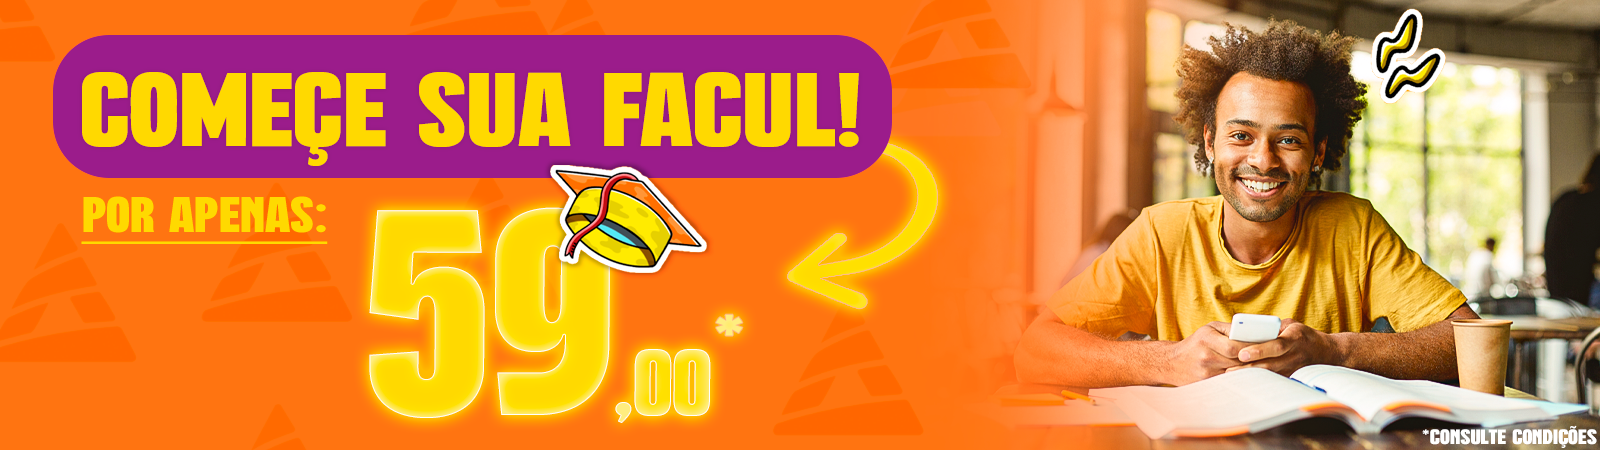
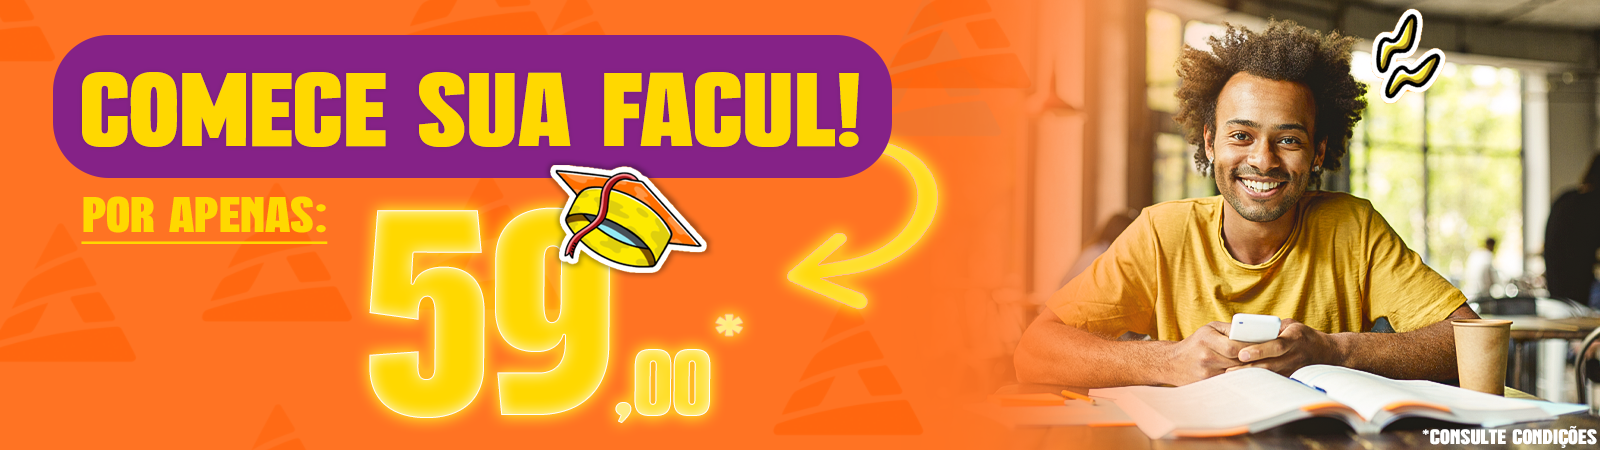
correçoes ortográficas

diff --git a/aport.html b/aport.html
@@ -129,7 +129,7 @@
         <img src="./img/aport-logo.svg" alt="logo stick">
         <h1 class="titulo-pos">Colaborador APORT, venha transformar o seu futuro acadêmico!</h1>
       </div>
-      <p>A Anhanguera SP disponibiliza uma ampla variedade de oportunidades acadêmicas, com mais de 100 cursos de graduação, mais de 500 cursos de pós-graduação e 9 cursos técnicos à sua disposição. Além disso, como colaborador, você pode contar com uma série de benefícios projetados para tornar o seu sonho acadêmico uma realidade. O nosso compromisso é com o seu sucesso acadêmico, e nossa equipe está dedicada a acompanhá-lo em toda a sua jornada. Oferecemos treinamento, orientações e estamos prontos para esclarecer todas as suas dúvidas, garantindo que você tenha todo o suporte necessário para alcançar seus objetivos acadêmicos. </p>
+      <p>A Anhanguera SP disponibiliza uma ampla variedade de oportunidades acadêmicas, com mais de 100 cursos de graduação, mais de 500 cursos de pós-graduação e 9 cursos técnicos à sua disposição. Além disso, como colaborador, você pode contar com uma série de benefícios projetados para tornar seu sonho acadêmico em realidade. O nosso compromisso é com o seu sucesso acadêmico, e nossa equipe está dedicada a acompanhá-lo(a) em toda a sua jornada. Oferecemos treinamento, orientações e estamos prontos para esclarecer todas as suas dúvidas, garantindo que você tenha todo o suporte necessário para alcançar seus objetivos acadêmicos. </p>
       <h2>Para cursos de Graduação:</h2>
       <img src="./img/desconto-g.png" alt="desconto graduação">
       <div class="colum-aport">
@@ -138,11 +138,11 @@
           <img src="./img/desconto-p.png" alt="desconto pós">
         </div>
         <div>
-          <h2>Os beneficcios ainda não acabaram! Ainda tem mais:</h2>
+          <h2>Os benefícios ainda não acabaram! Ainda têm mais:</h2>
           <img src="./img/desconto-cl.png" alt="Desconto cursos">
         </div>
       </div>
-      <p>Não precisa se preocupar com os horários! A secretária fica disponível para atendimento de segunda a sexta feira, das 8h às 22h e aos sábados das 8h às 17h. </p>
+      <p>Não precisa se preocupar com os horários! A secretaria fica disponível para atendimento de segunda a sexta feira, das 8h às 22h e aos sábados das 8h às 17h. </p>
     </div>
   </section>
 

diff --git a/graduacao.html b/graduacao.html
@@ -119,7 +119,7 @@
       <img src="./img/anhanguera-stick.svg" alt="logo stick">
       <h1>Não perca tempo e inicie seus estudos na anhanguera agora mesmo!</h1>
     </div>
-    <p class="texto-g">Invista no seu futuro profissional com o Grupo Anhanguera SP. Oferecemos uma ampla variedade de cursos de graduação, incluindo opções online, semipresenciais e presenciais. Nossa oferta abrange uma gama diversificada de áreas, como saúde, direito, educação, engenharia, tecnologia e muito mais. Além disso, nos dedicamos a proporcionar um ambiente de aprendizado de alta qualidade, com professores experientes e recursos de apoio para ajudá-lo a alcançar o sucesso acadêmico e profissional. Oferecemos cursos tecnólogos, bacharelados e licenciaturas para atender às suas necessidades e aspirações acadêmicas. Venha construir o seu caminho para o sucesso conosco.</p>
+    <p class="texto-g">Invista no seu futuro profissional com o Grupo Anhanguera SP. Oferecemos uma ampla variedade de cursos de graduação, incluindo opções online, semipresenciais e presenciais. Nossa oferta abrange uma gama diversificada de áreas, como saúde, direito, educação, engenharia, tecnologia e muito mais. Além disso, nos dedicamos a proporcionar um ambiente de aprendizado de alta qualidade, com professores experientes e recursos de apoio para ajudá-lo(a) a alcançar o sucesso acadêmico e profissional. Oferecemos cursos tecnólogos, bacharelados e licenciaturas para atender às suas necessidades e aspirações acadêmicas. Venha construir o seu caminho para o sucesso conosco.</p>
     <div class="intro-G">
       <img src="./img/chapeu-stick.svg" alt="logo stick">
       <h1>Confira alguns dos nossos cursos de graduação em alta!</h1>

diff --git a/CSS/Parcerias/acirc.css b/CSS/Parcerias/acirc.css
@@ -1,7 +1,8 @@
 .acirc {
   background-image: url(../../img/bg-acirc.png);
   background-position: center center;
-  display: flex; /* Torna a seção um contêiner flexível */
+  display: flex;
+  flex-wrap: wrap;
   justify-content: center; /* Centraliza horizontalmente */
   align-items: center; /* Centraliza verticalmente */
   min-height: 100vh; /* Garante que a seção tenha pelo menos a altura da tela */
@@ -26,7 +27,6 @@
   padding: 40px 20px;
   background-color: rgba(22, 55, 92, 0.5);
   border-radius: 13px;
-  /* Adicione margens superior e inferior para ajustar o espaçamento vertical */
   margin: 30px auto; /* Define margens laterais automáticas para centralizar horizontalmente */
   box-shadow: 10px 10px 10px rgba(0, 0, 0, 0.5);
 }

diff --git a/ACIRC.html b/ACIRC.html
@@ -174,6 +174,12 @@
       </div>
       <p>Não perca essa incrível oportunidade de se juntar à Anhanguera Rio Claro e aproveitar todos esses benefícios excepcionais disponíveis por meio dessa colaboração estratégica. Sua jornada para um futuro empresarial mais promissor começa aqui. Matricule-se agora e esteja pronto para abraçar um mundo de possibilidades! </p>
     </div>
+
+    <div class="acirc-container">
+      <h1 class="titulo-acirc">Sobre a ACIRC</h1>
+
+    </div>
+
   </section>
 
 
